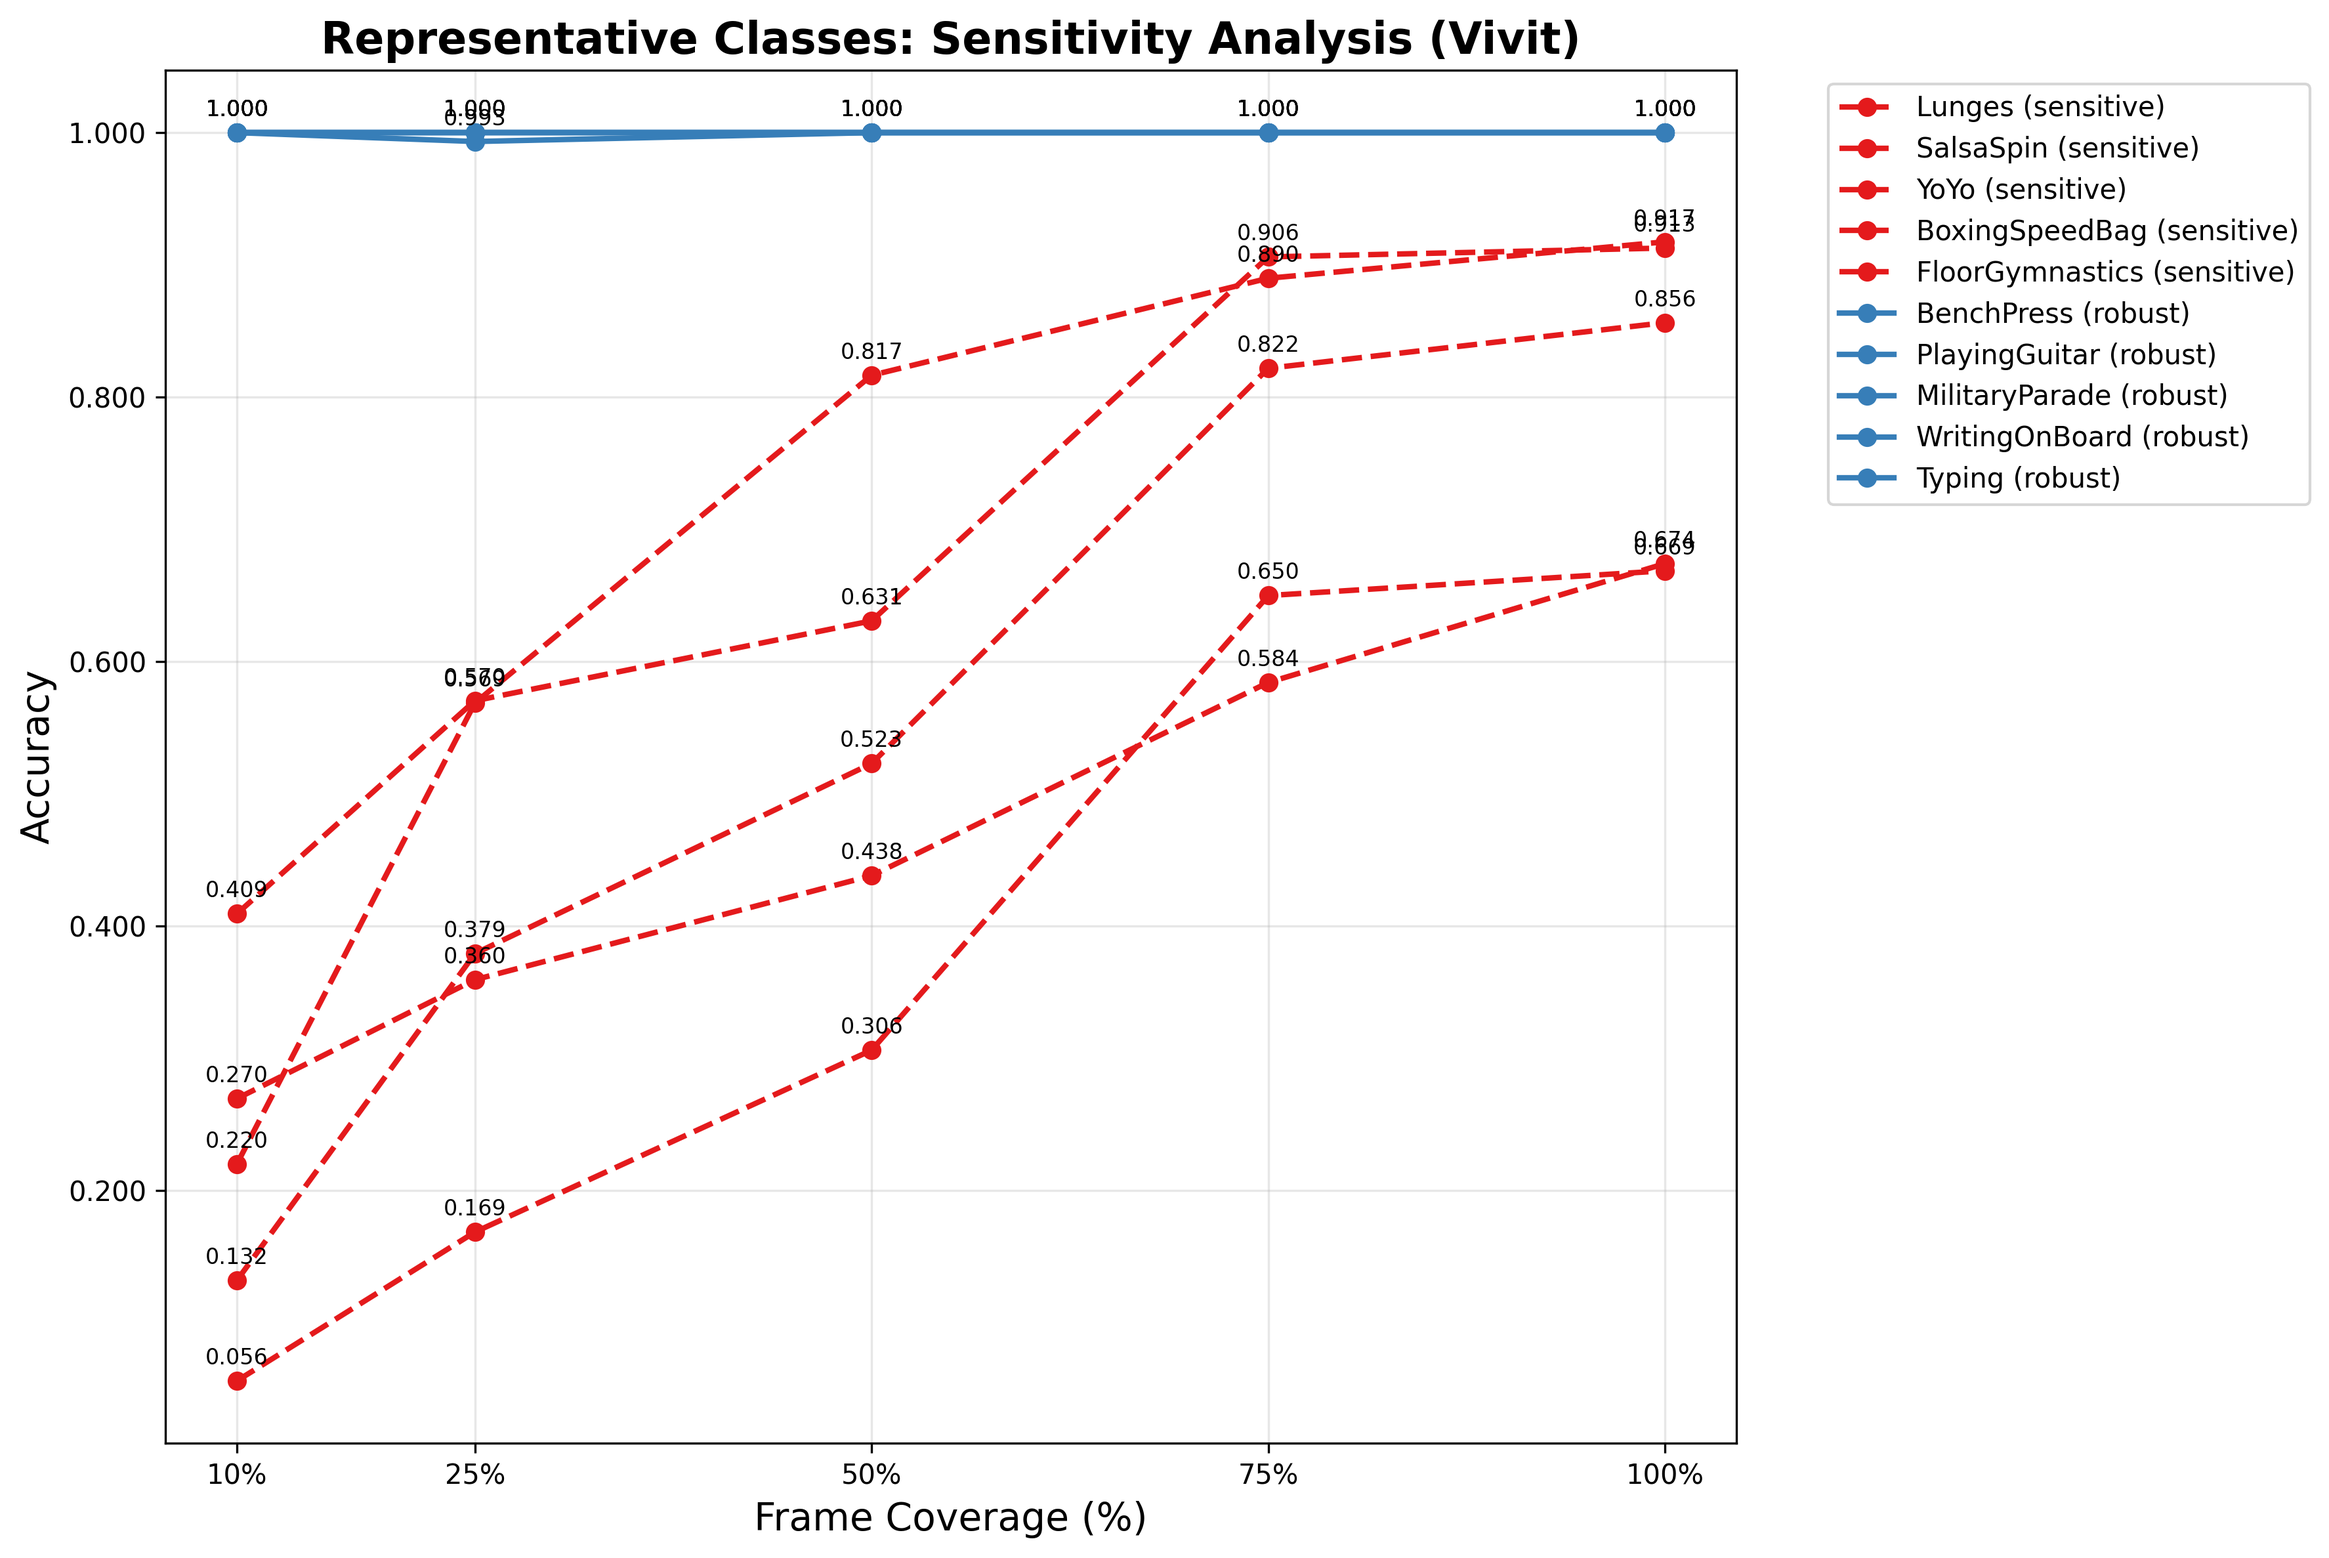
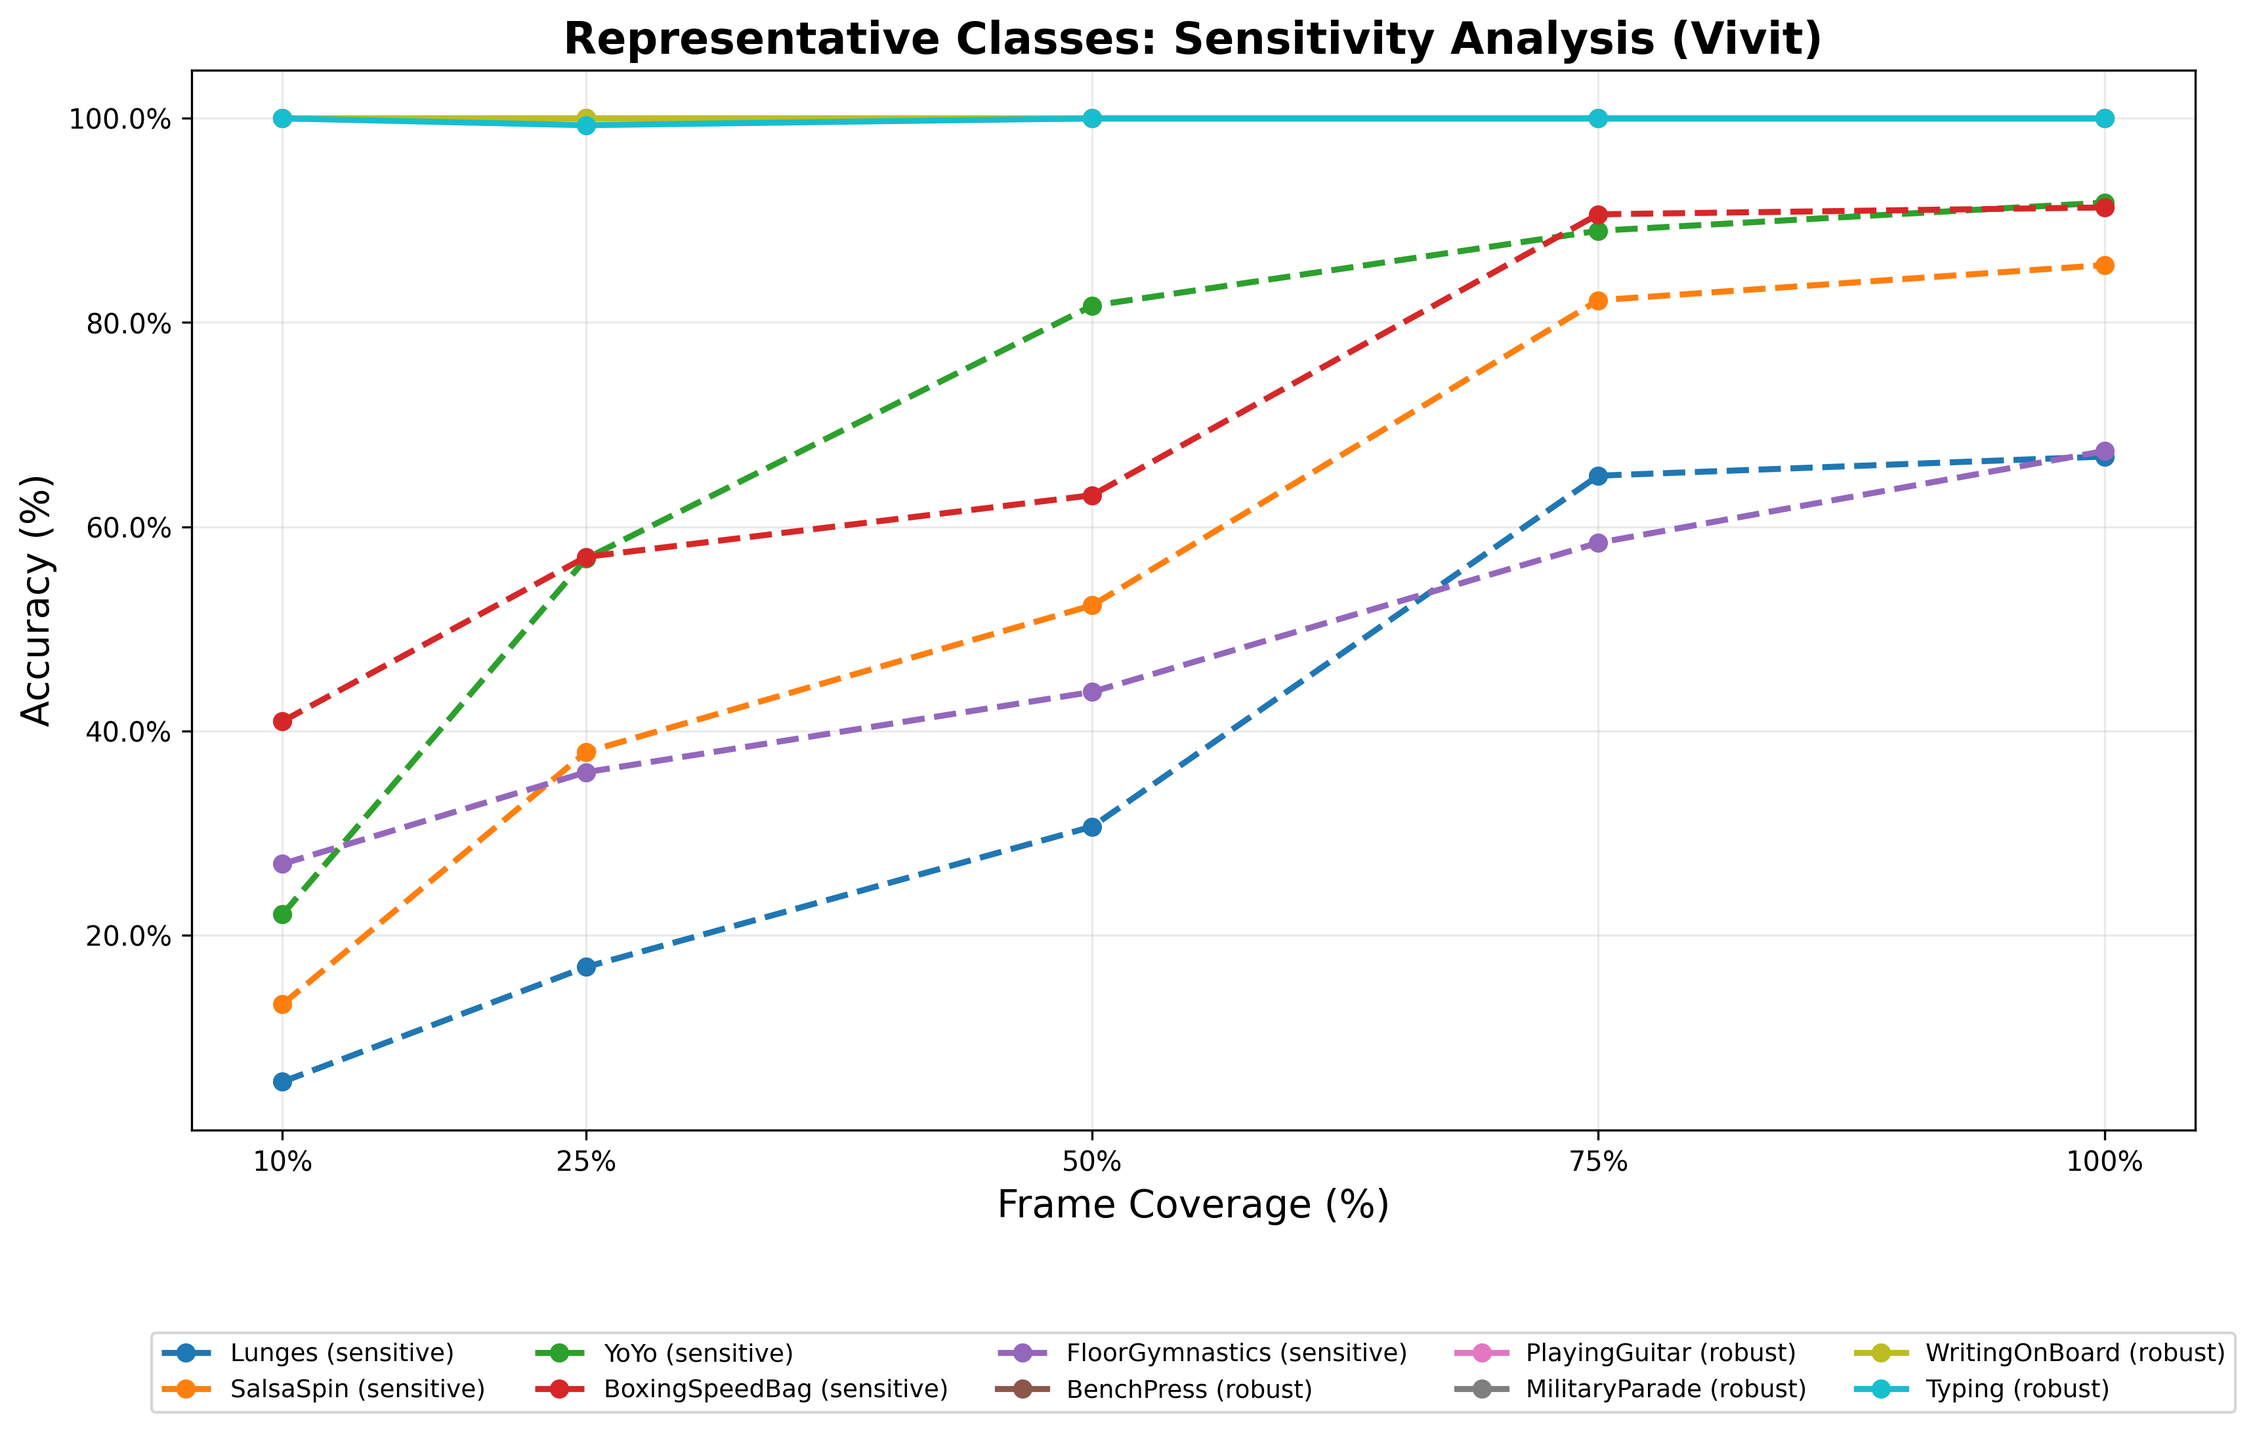
Plot: restyle representative classes plot (percent axis, cleaner palette, remove per-point annotations) and regenerate

diff --git a/scripts/plotting/generate_analysis_plots.py b/scripts/plotting/generate_analysis_plots.py
@@ -153,44 +153,36 @@ def generate_representative_plot(per_class_csv, output_dir, model_name):
     # Create plot
     fig, ax = plt.subplots(figsize=(12, 8))
 
-    colors = plt.cm.Set1(np.linspace(0, 1, 10))
-    line_styles = ['-', '--', '-.', ':', (0, (3, 1, 1, 1))]
+    # Distinct palette and styles for clarity
+    pal = sns.color_palette("tab10", n_colors=10)
 
-    for i, cls in enumerate(sensitive_classes + robust_classes):
-        if cls in sensitive_classes:
-            label = f"{cls} (sensitive)"
-            color = colors[0]
-            style = '--'
-        else:
-            label = f"{cls} (robust)"
-            color = colors[1]
-            style = '-'
+    classes = sensitive_classes + robust_classes
+    for i, cls in enumerate(classes):
+        label = f"{cls} (sensitive)" if cls in sensitive_classes else f"{cls} (robust)"
+        color = pal[i % len(pal)]
+        style = '--' if cls in sensitive_classes else '-'
 
-        accuracies = [pivot.loc[cls, cov] for cov in coverages]
-        ax.plot(coverages, accuracies, label=label, color=color, linestyle=style, linewidth=2, marker='o')
+        # Convert to percentage for plotting
+        accuracies = [pivot.loc[cls, cov] * 100.0 for cov in coverages]
+        ax.plot(coverages, accuracies, label=label, color=color, linestyle=style, linewidth=2.2, marker='o', markersize=6)
 
     ax.set_xlabel('Frame Coverage (%)', fontsize=14)
-    ax.set_ylabel('Accuracy', fontsize=14)
-    # Format y-axis to 3 decimal places and annotate each plotted line's points
+    ax.set_ylabel('Accuracy (%)', fontsize=14)
+    # Format y-axis as percentage with one decimal
     import matplotlib.ticker as mtick
-    ax.yaxis.set_major_formatter(mtick.FormatStrFormatter('%.3f'))
+    ax.yaxis.set_major_formatter(mtick.FormatStrFormatter('%.1f%%'))
 
     ax.set_title(f'Representative Classes: Sensitivity Analysis ({model_name.capitalize()})', fontsize=16, fontweight='bold')
     ax.set_xticks(coverages)
     ax.set_xticklabels([f"{int(c)}%" for c in coverages])
-    ax.grid(True, alpha=0.3)
-    ax.legend(bbox_to_anchor=(1.05, 1), loc='upper left')
+    ax.grid(True, alpha=0.25)
 
-    # Annotate only the 100% and 25% endpoints to reduce clutter
-    endpoints = [100, 25]
-    for line in ax.get_lines():
-        xdata = line.get_xdata()
-        ydata = line.get_ydata()
-        for x_val, y_val in zip(xdata, ydata):
-            if x_val in endpoints:
-                ax.annotate(f"{y_val*100:.1f}%", (x_val, y_val), textcoords="offset points", xytext=(0,6), ha='center', fontsize=9, fontweight='semibold')
+    # Place legend below as a compact multi-column legend to avoid overlapping the plot
+    ax.legend(ncol=5, bbox_to_anchor=(0.5, -0.18), loc='upper center', fontsize=9)
 
-    plt.tight_layout()
+    # No per-point annotations (clean lines as requested)
+
+    plt.tight_layout(rect=[0, 0, 1, 0.94])
     output_path = output_dir / "per_class_representative.png"
     plt.savefig(output_path, dpi=300, bbox_inches='tight')
     plt.close()
